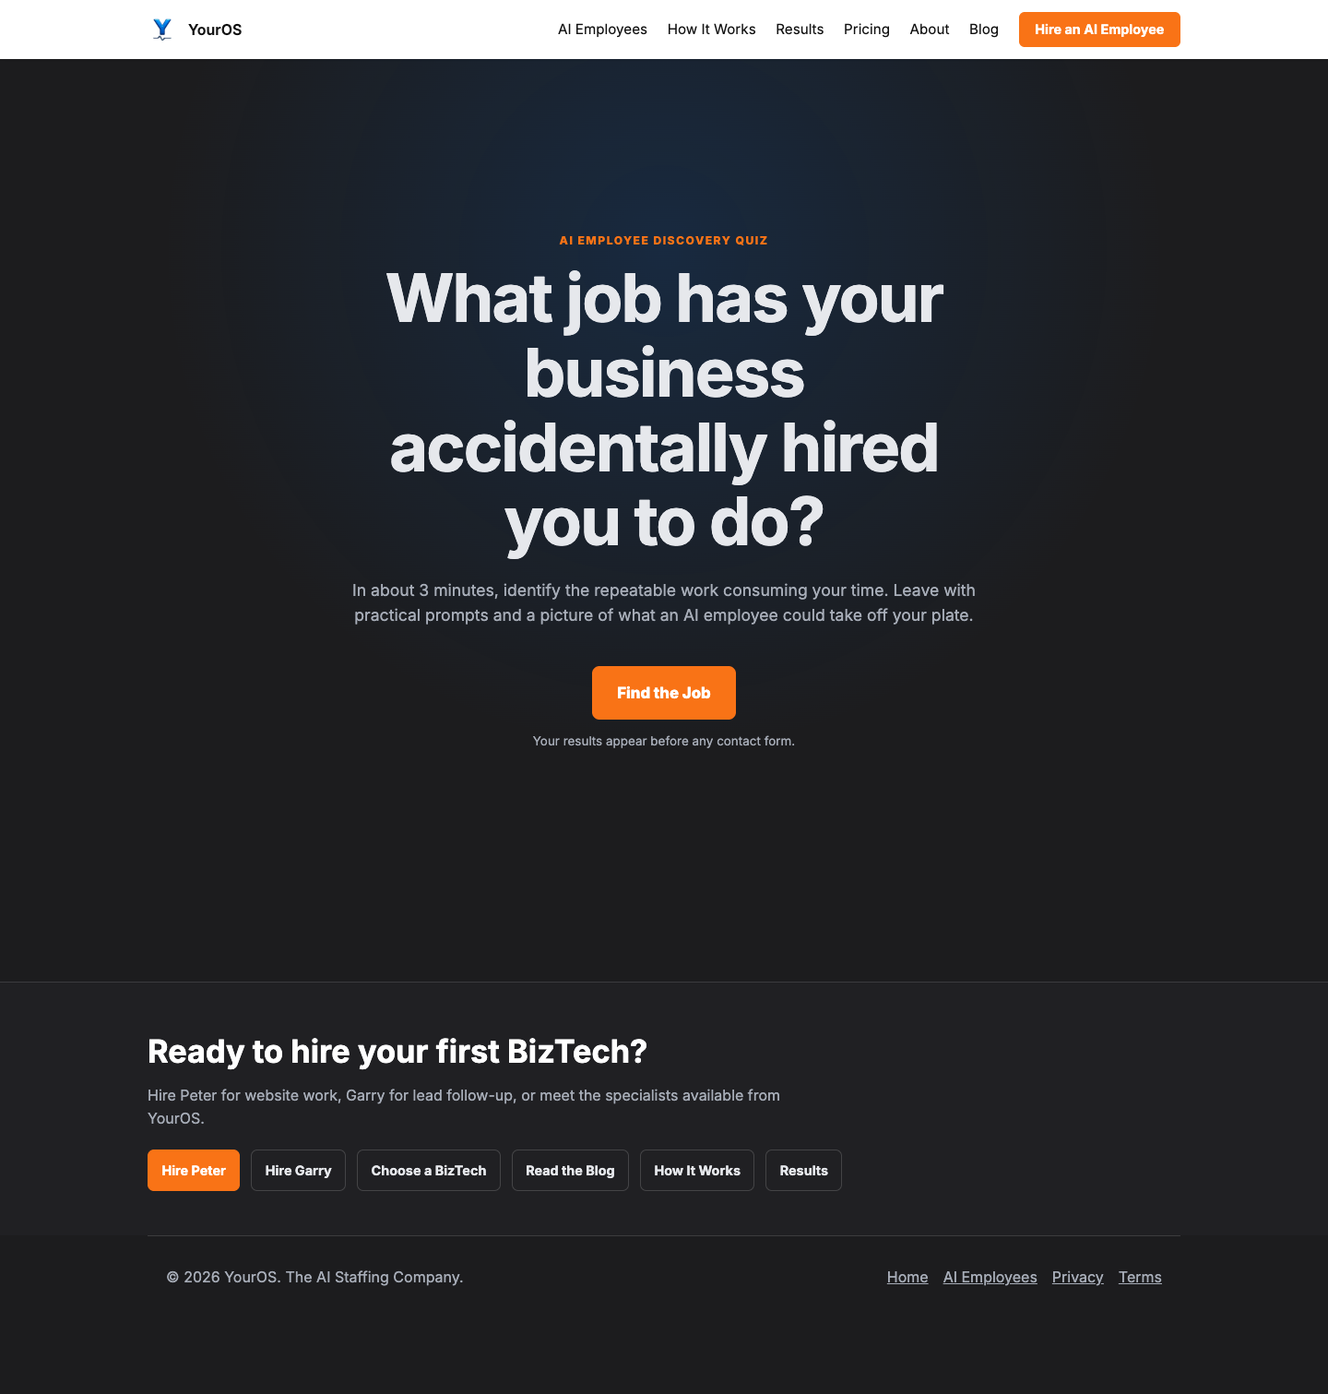
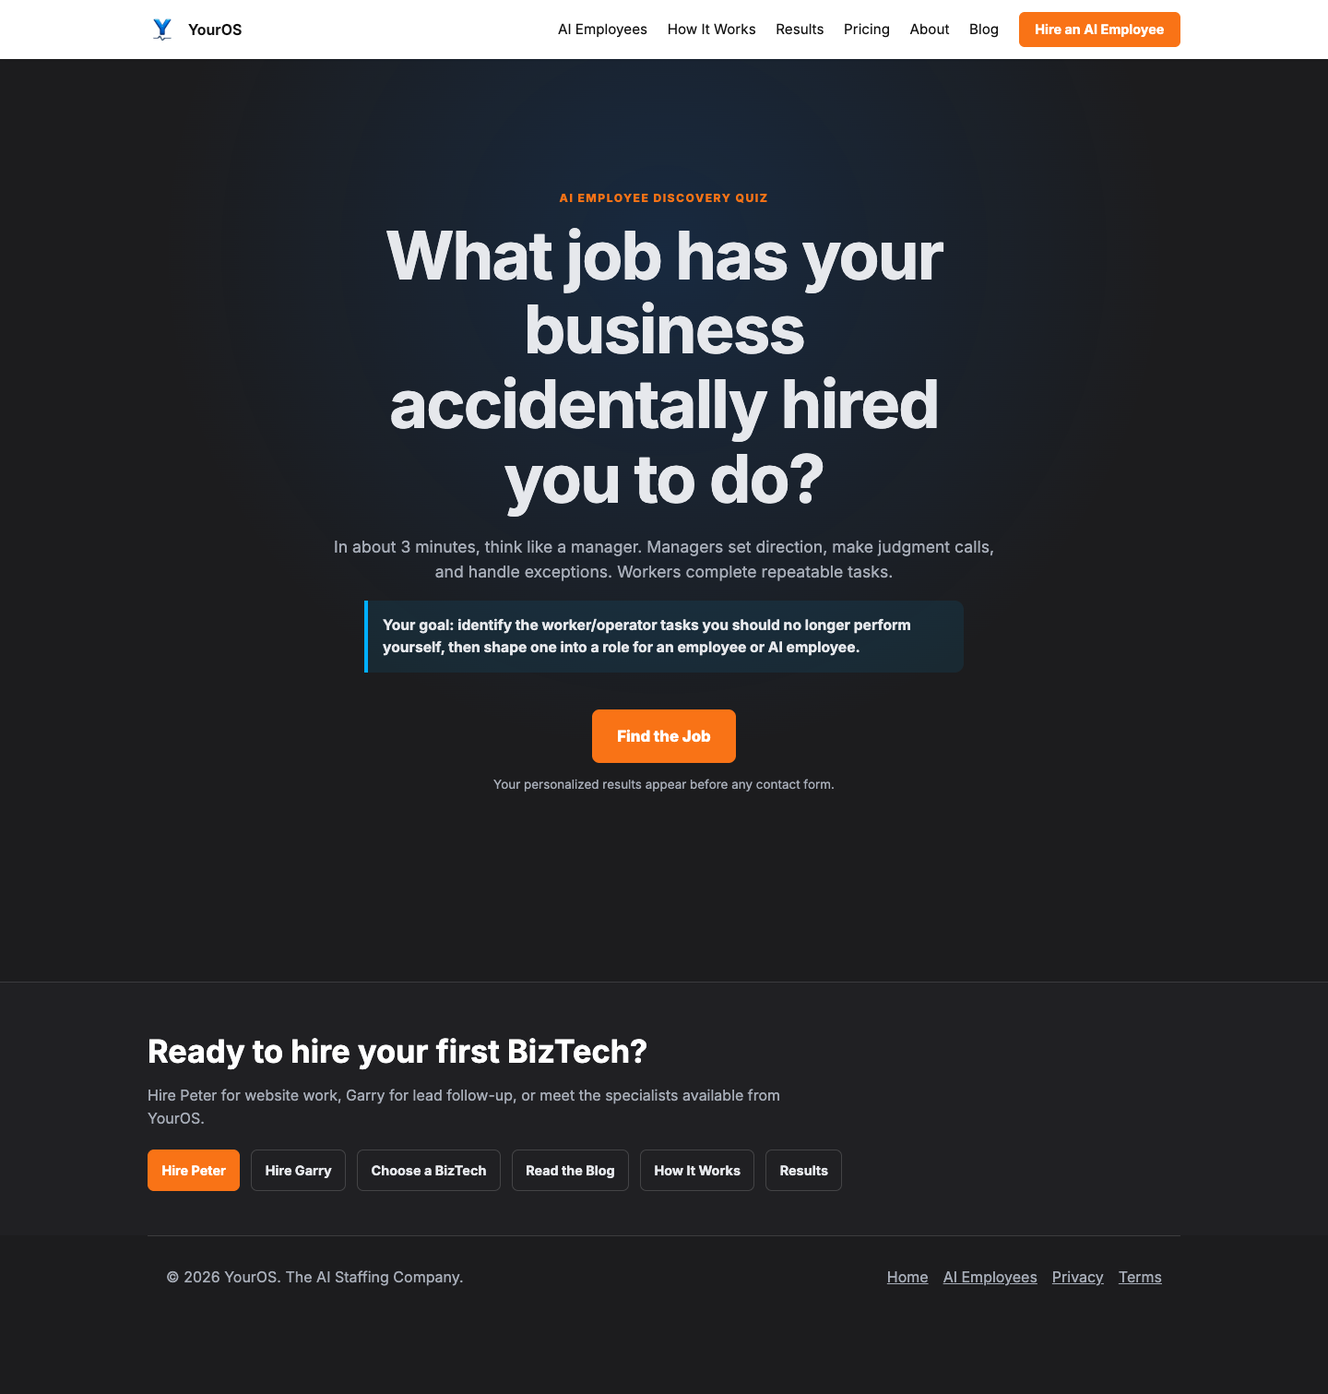
Strengthen quiz manager and worker teaching

Changed region(s): [[0.25, 0.1244, 0.75, 0.591], [0.4062, 0.5599, 0.4375, 0.591]]

diff --git a/ai-employee-quiz/index.html b/ai-employee-quiz/index.html
@@ -4,24 +4,24 @@
 <meta charset="utf-8"><meta name="viewport" content="width=device-width,initial-scale=1">
 <title>AI Employee Discovery Quiz | YourOS</title>
 <meta name="description" content="Find the repeatable job your business has accidentally assigned to you, then build a practical AI Employee Blueprint.">
-<link rel="canonical" href="https://www.youros.app/ai-employee-quiz/"><link rel="icon" href="/assets/brand/youros-mark.webp"><link rel="preconnect" href="https://fonts.googleapis.com"><link rel="preconnect" href="https://fonts.gstatic.com" crossorigin><link href="https://fonts.googleapis.com/css2?family=Inter:wght@400;600;700;800&display=swap" rel="stylesheet"><link rel="stylesheet" href="/site-header.css"><link rel="stylesheet" href="/ai-employee-quiz/quiz.css"><style>.screen h1,.screen h2,.screen h3{scroll-margin-top:84px}</style>
+<link rel="canonical" href="https://www.youros.app/ai-employee-quiz/"><link rel="icon" href="/assets/brand/youros-mark.webp"><link rel="preconnect" href="https://fonts.googleapis.com"><link rel="preconnect" href="https://fonts.gstatic.com" crossorigin><link href="https://fonts.googleapis.com/css2?family=Inter:wght@400;600;700;800&display=swap" rel="stylesheet"><link rel="stylesheet" href="/site-header.css"><link rel="stylesheet" href="/ai-employee-quiz/quiz.css"><style>.screen h1,.screen h2,.screen h3{scroll-margin-top:84px}.teaching-blip{margin:.8rem 0 1.4rem;padding:.9rem 1rem;border-left:4px solid var(--blue);border-radius:0 10px 10px 0;background:rgba(0,175,255,.09);color:var(--text);font-size:.98rem;font-weight:650}.intro .teaching-blip{max-width:650px;margin:1rem auto;text-align:left}.doctrine-strong{color:var(--text)!important;font-weight:700}@media(max-width:420px){.intro h1{font-size:2.05rem;margin:.45rem 0 .75rem}.intro .lead{font-size:1rem;margin:.55rem 0}.intro .teaching-blip{font-size:.9rem;padding:.7rem .8rem;margin:.7rem auto}.intro .button{margin-top:.7rem;padding:.85rem 1.4rem}.intro .fine{margin:.6rem 0 0}}</style>
 </head>
 <body class="quiz-page">
 <nav class="yos-header" aria-label="Primary navigation"><a class="yos-header__brand" href="/"><img src="/assets/brand/youros-mark.webp" width="96" height="96" alt="YourOS"><span>YourOS</span></a><button class="yos-header__toggle" type="button" aria-label="Toggle navigation" aria-expanded="false" aria-controls="primary-navigation"><span></span><span></span><span></span></button><div class="yos-header__links" id="primary-navigation"><a href="/biztechs/">AI Employees</a><a href="/how-it-works/">How It Works</a><a href="/results/">Results</a><a href="/pricing/">Pricing</a><a href="/about/">About</a><a href="/blog/">Blog</a><a class="yos-header__cta" href="/biztechs/?source=nav">Hire an AI Employee</a></div></nav>
 <main class="quiz-shell" data-quiz-app>
 <div class="quiz-progress"><span data-progress-text></span><progress data-progress max="10" value="1" hidden>Question progress</progress></div><p class="sr-only" aria-live="polite" data-live-status></p>
 <form data-quiz-form novalidate>
-<section class="screen intro" data-screen="intro"><div><p class="eyebrow">AI Employee Discovery Quiz</p><h1 tabindex="-1">What job has your business accidentally hired you to do?</h1><p class="lead">In about 3 minutes, identify the repeatable work consuming your time. Leave with practical prompts and a picture of what an AI employee could take off your plate.</p><button class="button" type="button" data-start>Find the Job</button><p class="fine">Your results appear before any contact form.</p></div></section>
-<section class="screen" data-screen data-question="time-allocation" hidden><p class="eyebrow">Where your time goes</p><h2 tabindex="-1">Where does too much of your workweek go?</h2><fieldset><legend class="sr-only">Choose one answer</legend><div class="choices"><label><input required type="radio" name="timeAllocation" value="doing"> Doing the work</label><label><input type="radio" name="timeAllocation" value="checking"> Checking or correcting work</label><label><input type="radio" name="timeAllocation" value="answering"> Answering questions and making decisions</label><label><input type="radio" name="timeAllocation" value="selling"> Selling and marketing</label><label><input type="radio" name="timeAllocation" value="planning"> Planning and improving</label><label><input type="radio" name="timeAllocation" value="firefighting"> Firefighting</label><label><input type="radio" name="timeAllocation" value="all"> A little of everything</label></div></fieldset><p class="error" data-error aria-live="polite"></p><div class="controls"><button type="button" class="text-button" data-back>Back</button><button type="button" class="button" data-next>Continue</button></div></section>
-<section class="screen" data-screen data-question="unwanted-task" hidden><p class="eyebrow">Last full workday</p><h2 tabindex="-1">What task consumed the most time that you did not want to be doing?</h2><label class="field">Describe the task<textarea required name="unwantedTask" maxlength="500" placeholder="For example: Chasing updates and answering status questions"></textarea></label><p class="error" data-error aria-live="polite"></p><div class="controls"><button type="button" class="text-button" data-back>Back</button><button type="button" class="button" data-next>Continue</button></div></section>
-<section class="screen" data-screen data-question="delegate-first" hidden><p class="eyebrow">The handoff list</p><h2 tabindex="-1">What are the first three responsibilities you would hand to a dependable employee?</h2><div class="stack"><label class="field">First responsibility<input required name="delegateFirst" data-index="0" maxlength="180"></label><label class="field">Second responsibility<input required name="delegateFirst" data-index="1" maxlength="180"></label><label class="field">Third responsibility<input required name="delegateFirst" data-index="2" maxlength="180"></label></div><p class="error" data-error aria-live="polite"></p><div class="controls"><button type="button" class="text-button" data-back>Back</button><button type="button" class="button" data-next>Continue</button></div></section>
+<section class="screen intro" data-screen="intro"><div><p class="eyebrow">AI Employee Discovery Quiz</p><h1 tabindex="-1">What job has your business accidentally hired you to do?</h1><p class="lead">In about 3 minutes, think like a manager. Managers set direction, make judgment calls, and handle exceptions. Workers complete repeatable tasks.</p><aside class="teaching-blip">Your goal: identify the worker/operator tasks you should no longer perform yourself, then shape one into a role for an employee or AI employee.</aside><button class="button" type="button" data-start>Find the Job</button><p class="fine">Your personalized results appear before any contact form.</p></div></section>
+<section class="screen" data-screen data-question="time-allocation" hidden><p class="eyebrow">Where your time goes</p><aside class="teaching-blip">Owners switch between worker and manager roles. The problem starts when repeatable worker tasks consume time needed for decisions, relationships, and growth.</aside><h2 tabindex="-1">Where does too much of your workweek go?</h2><fieldset><legend class="sr-only">Choose one answer</legend><div class="choices"><label><input required type="radio" name="timeAllocation" value="doing"> Doing the work</label><label><input type="radio" name="timeAllocation" value="checking"> Checking or correcting work</label><label><input type="radio" name="timeAllocation" value="answering"> Answering questions and making decisions</label><label><input type="radio" name="timeAllocation" value="selling"> Selling and marketing</label><label><input type="radio" name="timeAllocation" value="planning"> Planning and improving</label><label><input type="radio" name="timeAllocation" value="firefighting"> Firefighting</label><label><input type="radio" name="timeAllocation" value="all"> A little of everything</label></div></fieldset><p class="error" data-error aria-live="polite"></p><div class="controls"><button type="button" class="text-button" data-back>Back</button><button type="button" class="button" data-next>Continue</button></div></section>
+<section class="screen" data-screen data-question="unwanted-task" hidden><p class="eyebrow">Last full workday</p><aside class="teaching-blip">Worker-mode clue: look for what you repeatedly did, checked, chased, entered, or answered. Save the true judgment calls for the manager.</aside><h2 tabindex="-1">What task consumed the most time that you did not want to be doing?</h2><label class="field">Describe the task<textarea required name="unwantedTask" maxlength="500" placeholder="For example: Chasing updates and answering status questions"></textarea></label><p class="error" data-error aria-live="polite"></p><div class="controls"><button type="button" class="text-button" data-back>Back</button><button type="button" class="button" data-next>Continue</button></div></section>
+<section class="screen" data-screen data-question="delegate-first" hidden><p class="eyebrow">The handoff list</p><aside class="teaching-blip">If you can describe the outcome you want from a dependable employee, you have the start of an AI employee job description.</aside><h2 tabindex="-1">What are the first three responsibilities you would hand to a dependable employee?</h2><div class="stack"><label class="field">First responsibility<input required name="delegateFirst" data-index="0" maxlength="180"></label><label class="field">Second responsibility<input required name="delegateFirst" data-index="1" maxlength="180"></label><label class="field">Third responsibility<input required name="delegateFirst" data-index="2" maxlength="180"></label></div><p class="error" data-error aria-live="polite"></p><div class="controls"><button type="button" class="text-button" data-back>Back</button><button type="button" class="button" data-next>Continue</button></div></section>
 <section class="screen" data-screen data-question="categories" hidden><p class="eyebrow">Recurring work</p><h2 tabindex="-1">Which work keeps returning?</h2><fieldset><legend>Select all that apply</legend><div class="choices"><label><input required type="checkbox" name="categories" value="messages"> Calls and messages</label><label><input type="checkbox" name="categories" value="scheduling"> Scheduling</label><label><input type="checkbox" name="categories" value="follow-up"> Customer or lead follow-up</label><label><input type="checkbox" name="categories" value="quotes"> Quotes and estimates</label><label><input type="checkbox" name="categories" value="data"> Data entry and system updates</label><label><input type="checkbox" name="categories" value="retrieval"> Information retrieval</label><label><input type="checkbox" name="categories" value="reports"> Reports and status updates</label><label><input type="checkbox" name="categories" value="marketing"> Marketing and content</label><label><input type="checkbox" name="categories" value="onboarding"> Customer or employee onboarding</label><label><input type="checkbox" name="categories" value="coordination"> Team and vendor coordination</label><label><input type="checkbox" name="categories" value="quality"> Checking and quality control</label><label><input type="checkbox" name="categories" value="other"> Other recurring work</label></div></fieldset><p class="error" data-error aria-live="polite"></p><div class="controls"><button type="button" class="text-button" data-back>Back</button><button type="button" class="button" data-next>Continue</button></div></section>
-<section class="screen" data-screen data-question="trigger" hidden><p class="eyebrow">The starting signal</p><h2 tabindex="-1">What usually triggers this work?</h2><fieldset><legend class="sr-only">Choose one trigger</legend><div class="choices"><label><input required type="radio" name="trigger" value="message"> An inbound call or message</label><label><input type="radio" name="trigger" value="form"> A form submission</label><label><input type="radio" name="trigger" value="email"> An email</label><label><input type="radio" name="trigger" value="meeting"> A meeting</label><label><input type="radio" name="trigger" value="sale"> A sale or payment</label><label><input type="radio" name="trigger" value="record"> A record or status change</label><label><input type="radio" name="trigger" value="time"> A time or day</label><label><input type="radio" name="trigger" value="forgotten"> Someone notices a forgotten item</label><label><input type="radio" name="trigger" value="other"> Something else</label></div></fieldset><p class="error" data-error aria-live="polite"></p><div class="controls"><button type="button" class="text-button" data-back>Back</button><button type="button" class="button" data-next>Continue</button></div></section>
+<section class="screen" data-screen data-question="trigger" hidden><p class="eyebrow">The starting signal</p><aside class="teaching-blip">Repeatable work has a trigger, steps, and an expected result. Naming the trigger turns “remember to do this” into a process a worker can own.</aside><h2 tabindex="-1">What usually triggers this work?</h2><fieldset><legend class="sr-only">Choose one trigger</legend><div class="choices"><label><input required type="radio" name="trigger" value="message"> An inbound call or message</label><label><input type="radio" name="trigger" value="form"> A form submission</label><label><input type="radio" name="trigger" value="email"> An email</label><label><input type="radio" name="trigger" value="meeting"> A meeting</label><label><input type="radio" name="trigger" value="sale"> A sale or payment</label><label><input type="radio" name="trigger" value="record"> A record or status change</label><label><input type="radio" name="trigger" value="time"> A time or day</label><label><input type="radio" name="trigger" value="forgotten"> Someone notices a forgotten item</label><label><input type="radio" name="trigger" value="other"> Something else</label></div></fieldset><p class="error" data-error aria-live="polite"></p><div class="controls"><button type="button" class="text-button" data-back>Back</button><button type="button" class="button" data-next>Continue</button></div></section>
 <section class="screen" data-screen data-question="correct-result" hidden><p class="eyebrow">Definition of done</p><h2 tabindex="-1">What does a correct result look like?</h2><label class="field">Describe the finished outcome<textarea required name="correctResult" maxlength="500" placeholder="For example: Every new lead receives a useful reply and the next step is recorded"></textarea></label><p class="error" data-error aria-live="polite"></p><div class="controls"><button type="button" class="text-button" data-back>Back</button><button type="button" class="button" data-next>Continue</button></div></section>
 <section class="screen" data-screen data-question="required-information" hidden><p class="eyebrow">Inputs</p><h2 tabindex="-1">What information is required to complete it?</h2><fieldset><legend>Select all that apply</legend><div class="choices"><label><input required type="checkbox" name="requiredInfo" value="request"> The original request or form</label><label><input type="checkbox" name="requiredInfo" value="conversation"> The relevant email, call, or message</label><label><input type="checkbox" name="requiredInfo" value="customer"> Customer or contact history</label><label><input type="checkbox" name="requiredInfo" value="policy"> Pricing, rules, or policies</label><label><input type="checkbox" name="requiredInfo" value="calendar"> Calendar or availability</label><label><input type="checkbox" name="requiredInfo" value="records"> Current records or job status</label><label><input type="checkbox" name="requiredInfo" value="owner"> Information currently held by me</label><label><input type="checkbox" name="requiredInfo" value="other"> Something else</label></div></fieldset><p class="error" data-error aria-live="polite"></p><div class="controls"><button type="button" class="text-button" data-back>Back</button><button type="button" class="button" data-next>Continue</button></div></section>
 <section class="screen doctrine" data-screen hidden><p class="eyebrow">A useful dividing line</p><h2 tabindex="-1">Workers complete repeatable tasks. Managers set direction, make judgment calls, and handle exceptions.</h2><p>Good AI systems complete standard work, show their actions, and escalate exceptions.</p><div class="controls"><button type="button" class="text-button" data-back>Back</button><button type="button" class="button" data-next>Continue</button></div></section>
 <section class="screen" data-screen data-question="judgment" hidden><p class="eyebrow">Rules and judgment</p><h2 tabindex="-1">How much of this responsibility can follow clear worker rules?</h2><fieldset><legend class="sr-only">Choose one answer</legend><div class="choices"><label><input required type="radio" name="judgment" value="rules"> Most of it follows clear rules</label><label><input type="radio" name="judgment" value="mixed"> Rules cover standard work, with manager judgment for exceptions</label><label><input type="radio" name="judgment" value="mostly-judgment"> Most cases still need owner judgment</label></div></fieldset><p class="error" data-error aria-live="polite"></p><div class="controls"><button type="button" class="text-button" data-back>Back</button><button type="button" class="button" data-next>Continue</button></div></section>
-<section class="screen doctrine" data-screen hidden><p class="eyebrow">Trust is designed</p><h2 tabindex="-1">The goal is visible work with clear boundaries.</h2><p>Choose the review level that would let a worker help without hiding actions or bypassing your judgment.</p><div class="controls"><button type="button" class="text-button" data-back>Back</button><button type="button" class="button" data-next>Continue</button></div></section>
+<section class="screen doctrine" data-screen hidden><p class="eyebrow">The manager stays in charge</p><h2 tabindex="-1">Good AI systems do not remove the manager.</h2><p class="doctrine-strong">They complete the normal work, show what they did, and escalate exceptions to the manager.</p><div class="controls"><button type="button" class="text-button" data-back>Back</button><button type="button" class="button" data-next>Continue</button></div></section>
 <section class="screen" data-screen data-question="trust-controls" hidden><p class="eyebrow">Trust controls</p><h2 tabindex="-1">What would you need before trusting this responsibility to a worker?</h2><fieldset><legend>Select all that apply</legend><div class="choices"><label><input required type="checkbox" name="trustControls" value="approval"> Approval before sensitive actions</label><label><input type="checkbox" name="trustControls" value="visibility"> Visibility into every action</label><label><input type="checkbox" name="trustControls" value="rules"> Clear rules and boundaries</label><label><input type="checkbox" name="trustControls" value="examples"> Examples of correct work</label><label><input type="checkbox" name="trustControls" value="questions"> Questions whenever the worker is uncertain</label><label><input type="checkbox" name="trustControls" value="escalation"> Escalation for exceptions</label><label><input type="checkbox" name="trustControls" value="takeover"> A way for me to take over</label><label><input type="checkbox" name="trustControls" value="sample"> A small test before wider use</label></div></fieldset><p class="error" data-error aria-live="polite"></p><div class="controls"><button type="button" class="text-button" data-back>Back</button><button type="button" class="button" data-next>Continue</button></div></section>
 <section class="screen" data-screen data-question="returned-time" hidden><p class="eyebrow">What becomes possible</p><h2 tabindex="-1">If this responsibility stopped consuming your attention, what would you do with the returned time?</h2><label class="field">What becomes possible?<textarea required name="returnedTime" maxlength="500" placeholder="For example: Spend more time with customers and improve the service"></textarea></label><p class="error" data-error aria-live="polite"></p><div class="controls"><button type="button" class="text-button" data-back>Back</button><button type="button" class="button" data-next>Build My Blueprint</button></div></section>
 </form>

diff --git a/pr-assets/ai-employee-quiz/claude-instructional-review.md b/pr-assets/ai-employee-quiz/claude-instructional-review.md
@@ -1,0 +1,34 @@
+# Claude Instructional Hierarchy Review
+
+## Model receipt
+
+- Provider: Anthropic first-party
+- Canonical model: `claude-sonnet-5`
+- Session: `08becb49-b3e6-43f8-9f7a-e6597f3f5f0e`
+- Terminal reason: `completed`
+- Result type: `success`
+
+## Verdict
+
+**PASS**
+
+## Explicit acceptance finding
+
+Claude confirmed that the manager-versus-worker lesson is unmistakable by the end of question three.
+
+The review verified:
+
+- The opening says managers set direction, make judgment calls, and handle exceptions, while workers complete repeatable tasks.
+- Question one teaches that owners switch between worker and manager roles, and that repeatable worker tasks can consume time needed for decisions, relationships, and growth.
+- Question two reinforces the difference between repeated operator work and true manager judgment.
+- Question three teaches that describing the desired outcome for a dependable employee is the beginning of an AI employee job description.
+- The trigger section teaches that repeatable work has a trigger, steps, and an expected result.
+- The judgment section prominently states that good AI systems do not remove the manager. They complete normal work, show what they did, and escalate exceptions.
+- The teaching cards are concise, conversational, visually distinct, and readable at the tested iPhone width.
+
+## Findings
+
+No content, correctness, accessibility, or instructional-hierarchy blockers were found.
+
+Claude noted that full-page screenshot stitching could duplicate the sticky header in the Q1 and Q3 evidence images. Those two artifacts were recaptured as single iPhone viewports after the review.
+

diff --git a/ai-employee-quiz/README.md b/ai-employee-quiz/README.md
@@ -5,6 +5,7 @@ Static, one-question-at-a-time discovery quiz at `/ai-employee-quiz/`.
 ## Architecture
 
 - `index.html`: semantic quiz, results, and build-time discoverable Netlify form.
+- Visible teaching cards establish the manager-versus-worker lesson on the opening screen, in each of the first three questions, at the process trigger, and before trust controls.
 - `quiz.css`: responsive YourOS styling and accessible states.
 - `quiz.js`: navigation, validation, session resume, rendering, analytics, copying, and submission.
 - `result-engine.js`: pure, versioned deterministic result logic. It makes no network calls.
